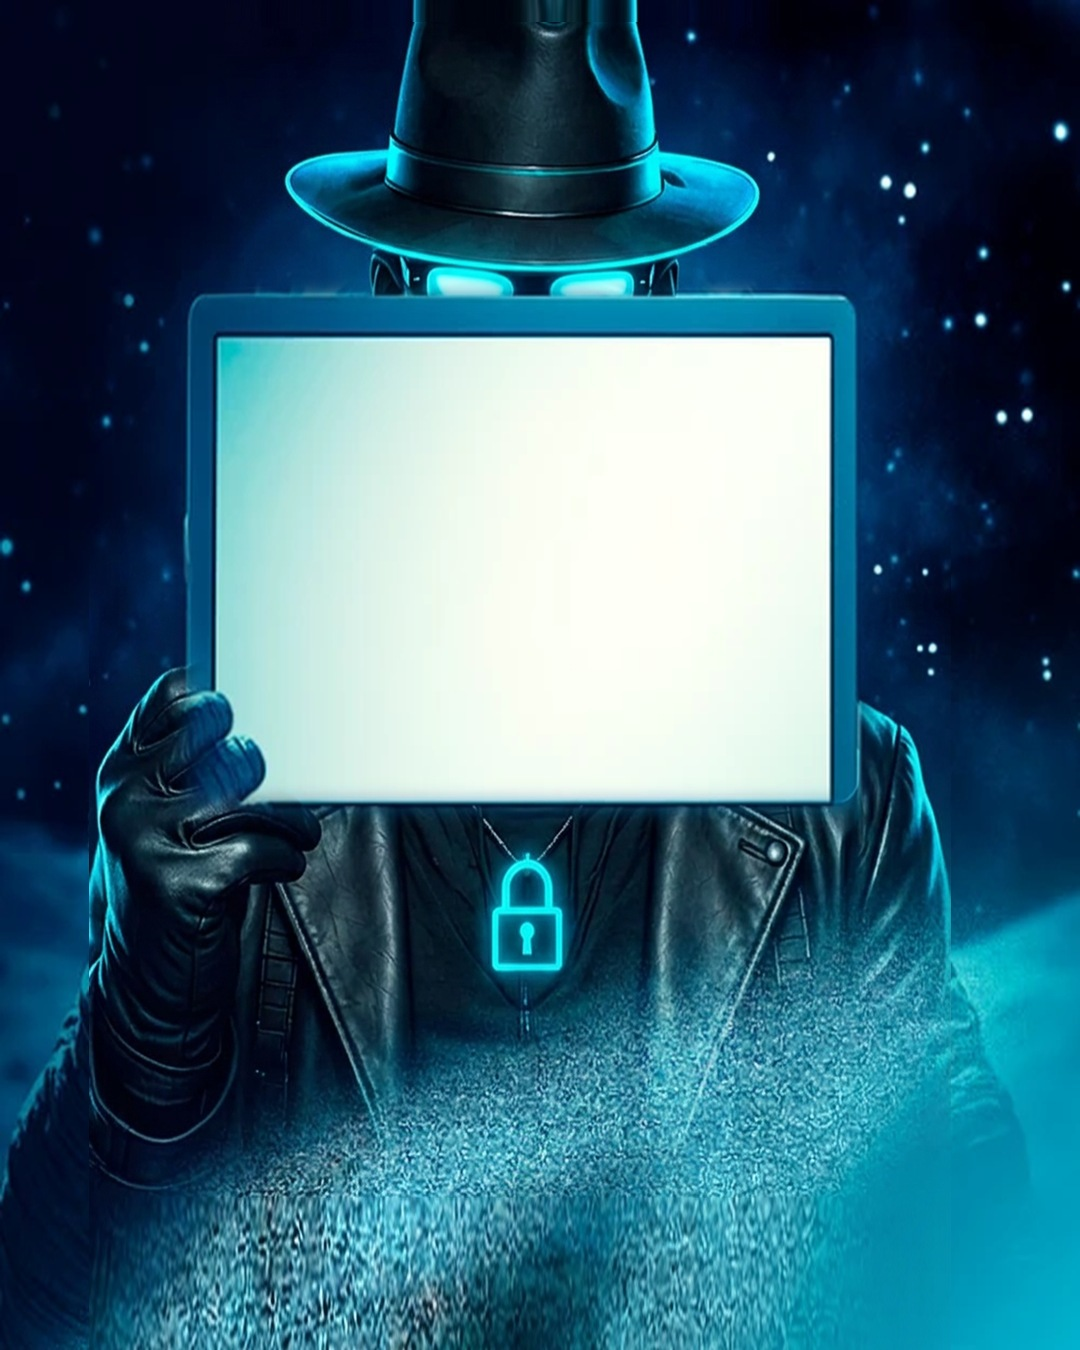
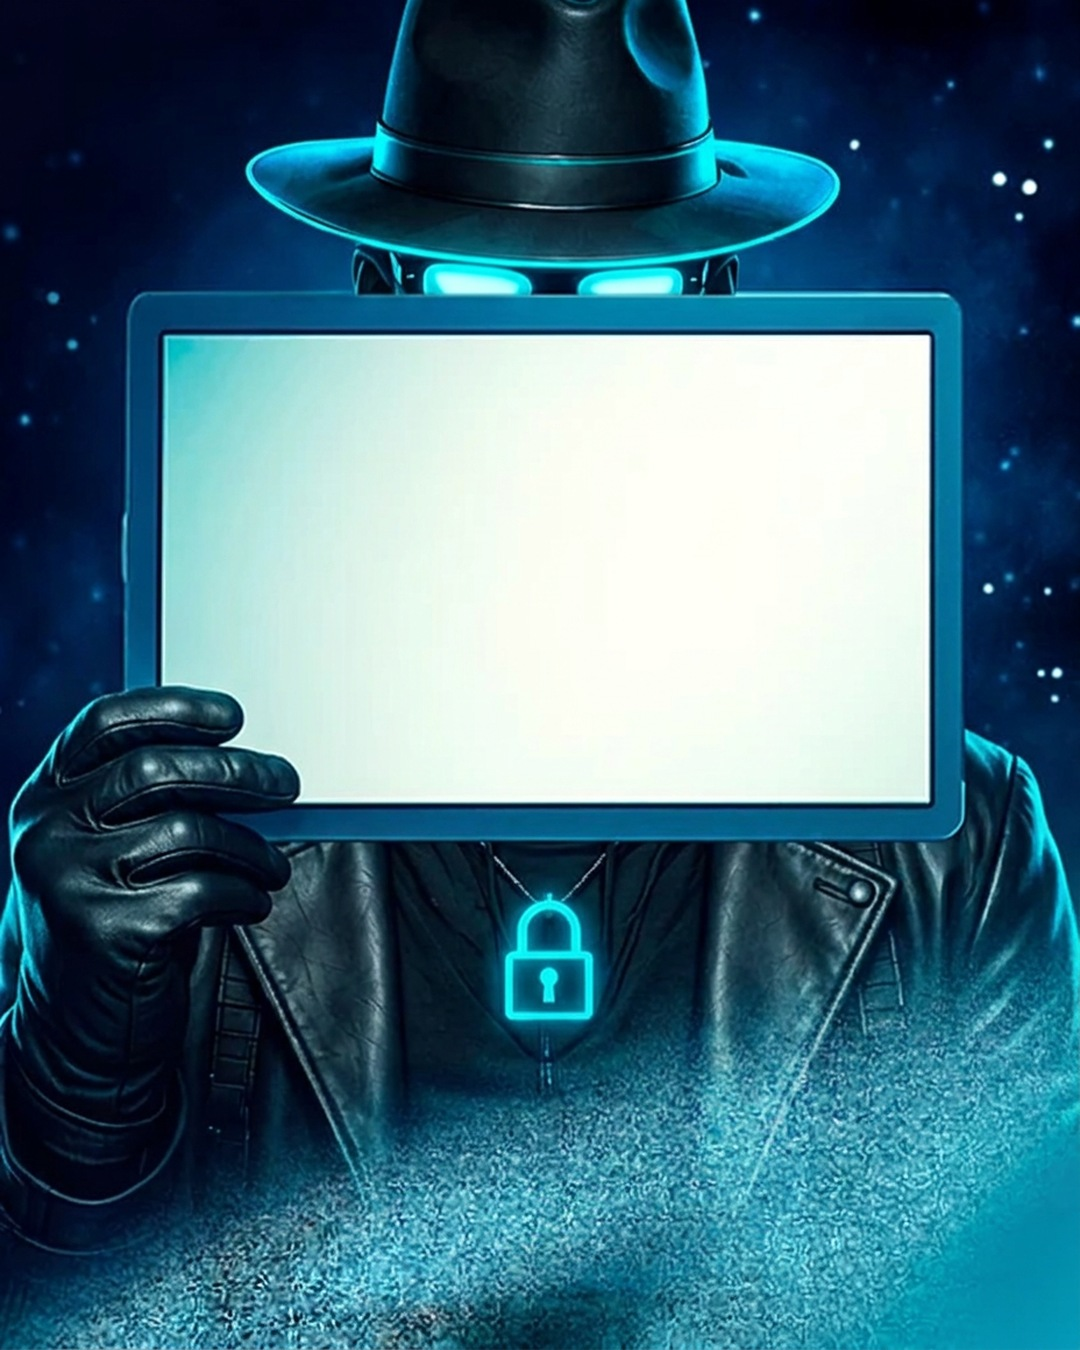
Template 13: capa volta a ser a aprovada (mascote da 007 e layout anterior); páginas seguintes com o fundo novo
Claude-Session: https://claude.ai/code/session_017mkQW885k4H9tbGerhJzi7

diff --git a/public/arte-modelos.js b/public/arte-modelos.js
@@ -782,24 +782,24 @@ const epLogo = (s, e, ctx, x, y) => { if (ctx.logo) s.items.push({ asset: ctx.lo
 const epBase = n => ({ bg: { asset: 'tpl-espaco-fundo-' + n, color: '#020b14' }, paper: '#020b14', shade: 0, pager: false, fx: { grain: 0, vignette: 0 }, texts: [], items: [], shapes: [] });
 COMPOR_EXTRA['espaco-capa'] = (d, ctx) => {
   usaFontes(ctx, 'bebas', 'poppins');
-  const e = erEsc(ctx, ctx.W, ctx.H), s = epBase(1), tf = fT(CONDENSADA[FK.t] ? 400 : 700, 0), cx = epX(485), maxW = 560;
-  if (/spyhacker/i.test(String(ctx.marca || ''))) s.bg = { ...s.bg, asset: 'tpl-espaco-fundo-1-spyhacker' };   // 007 Spyhacker: o mascote no lugar do astronauta, o resto do fundo intacto
+  const e = erEsc(ctx, ctx.W, ctx.H), s = epBase(1), tf = fT(CONDENSADA[FK.t] ? 400 : 700, 0), cx = 552, maxW = 640;
+  if (/spyhacker/i.test(String(ctx.marca || ''))) s.bg = { ...s.bg, asset: 'tpl-espaco-fundo-1-spyhacker' };   // 007 Spyhacker: o mascote segura o tablet no lugar do astronauta (dono, 19/11/2026)
   // título na tela do tablet: as linhas de cima menores e a última (a palavra-chave) gigante, como “CONTA!”
   let tl = String(d.titulo || '4 segredos de marketing|que ninguém te|conta!').toUpperCase().split('|').map(x => x.replace(/\*/g, '').trim()).filter(Boolean);
-  if (tl.length === 1) { const p = tl[0].split(/\s+/); tl = [...(p.length > 1 ? erQuebra(p.slice(0, -1).join(' '), tf, 56, maxW) : []), p[p.length - 1]]; }
+  if (tl.length === 1) { const p = tl[0].split(/\s+/); tl = [...(p.length > 1 ? erQuebra(p.slice(0, -1).join(' '), tf, 62, maxW) : []), p[p.length - 1]]; }
   const cima = tl.slice(0, -1).slice(-3), ult = tl[tl.length - 1];
-  const zc = Math.min(56, ...cima.map(l => 56 * maxW / Math.max(maxW, largura(l, tf, 56)))), zu = Math.min(200, 200 * (maxW - 60) / Math.max(1, largura(ult, tf, 200)));
-  const LH = 1.18, hT = cima.length * zc * LH + zu * .92, y0 = epY(418) - hT / 2;   // centro da tela do tablet
+  const zc = Math.min(64, ...cima.map(l => 64 * maxW / Math.max(maxW, largura(l, tf, 64)))), zu = Math.min(230, 230 * maxW / Math.max(1, largura(ult, tf, 230)));
+  const LH = 1.18, hT = cima.length * zc * LH + zu * .92, y0 = 570 - hT / 2;   // 1,18: linha com acento (NINGUÉM) não encosta na de cima
   cima.forEach((l, i) => s.texts.push({ role: 'title', value: l, x: e.X(cx), y: e.Y(y0 + zc * .59 + i * zc * LH), align: 'center', size: e.P(zc), font: tf.k, weight: tf.w, lh: 1, color: '#111111', nowrap: true, shadow: false }));
   s.texts.push({ role: 'title', value: ult, x: e.X(cx), y: e.Y(y0 + cima.length * zc * LH + zu * .46), align: 'center', size: e.P(zu), font: tf.k, weight: tf.w, lh: 1, color: '#111111', nowrap: true, shadow: false });
-  // botão como na arte: pílula ciano “Arraste para o lado” + quadrado com a seta
-  const bt = String(d.cta_arraste || 'Arraste para o lado').toUpperCase(), bf = fX(600, .04), by = epY(690), bx0 = epX(258), bw = Math.max(epX(287), largura(bt, bf, 20) + 60);
-  s.shapes.push({ kind: 'pill', x: e.X(bx0 + bw / 2), y: e.Y(by), w: e.X(bw), h: e.Y(80), color: EP.ciano, radius: .2 });
-  s.texts.push({ role: 'label', value: bt, x: e.X(bx0 + bw / 2), y: e.Y(by), align: 'center', size: e.P(20), font: bf.k, weight: bf.w, ls: .04, lh: 1, color: EP.navy, nowrap: true, shadow: false });
-  s.shapes.push({ kind: 'rect', x: e.X(bx0 + bw + 22 + 50), y: e.Y(by), w: e.X(100), h: e.Y(80), radius: .22, color: EP.ciano });
-  s.shapes.push({ kind: 'icon', icon: 'arrow-right', icon_color: EP.navy, x: e.X(bx0 + bw + 22 + 50), y: e.Y(by), w: e.X(40), h: e.Y(40) });
-  // três barras de ferramentas em leque no canto de baixo, como na arte
-  for (const [x, y] of [[40, 845], [105, 815], [165, 800]]) s.items.push({ asset: 'tpl-espaco-ferramentas', x: e.X(epX(x)), y: e.Y(epY(y)), size: 600 });
+  // botão: pílula ciano “Arraste para o lado” + quadrado com a seta
+  const bt = String(d.cta_arraste || d.cta || 'Arraste para o lado').toUpperCase(), bf = fX(600, .04), bw = Math.max(330, largura(bt, bf, 24) + 90);
+  s.shapes.push({ kind: 'pill', x: e.X(238 + bw / 2), y: e.Y(932), w: e.X(bw), h: e.Y(80), color: EP.ciano, radius: .2 });
+  s.texts.push({ role: 'label', value: bt, x: e.X(238 + bw / 2), y: e.Y(932), align: 'center', size: e.P(24), font: bf.k, weight: bf.w, ls: .04, lh: 1, color: EP.navy, nowrap: true, shadow: false });
+  s.shapes.push({ kind: 'rect', x: e.X(238 + bw + 22 + 62), y: e.Y(932), w: e.X(124), h: e.Y(80), radius: .22, color: EP.ciano });
+  s.shapes.push({ kind: 'icon', icon: 'arrow-right', icon_color: EP.navy, x: e.X(238 + bw + 22 + 62), y: e.Y(932), w: e.X(44), h: e.Y(44) });
+  s.items.push({ asset: 'tpl-espaco-ferramentas', x: e.X(70), y: e.Y(1170), size: 1000, rot: 16 });
+  epLogo(s, e, ctx, 960, 1260);
   return s;
 };
 // miolo: etiqueta “SEGREDOS DO MKT” e 2 itens lado a lado (seta, “01.” branco + título ciano, texto com *negrito*);
